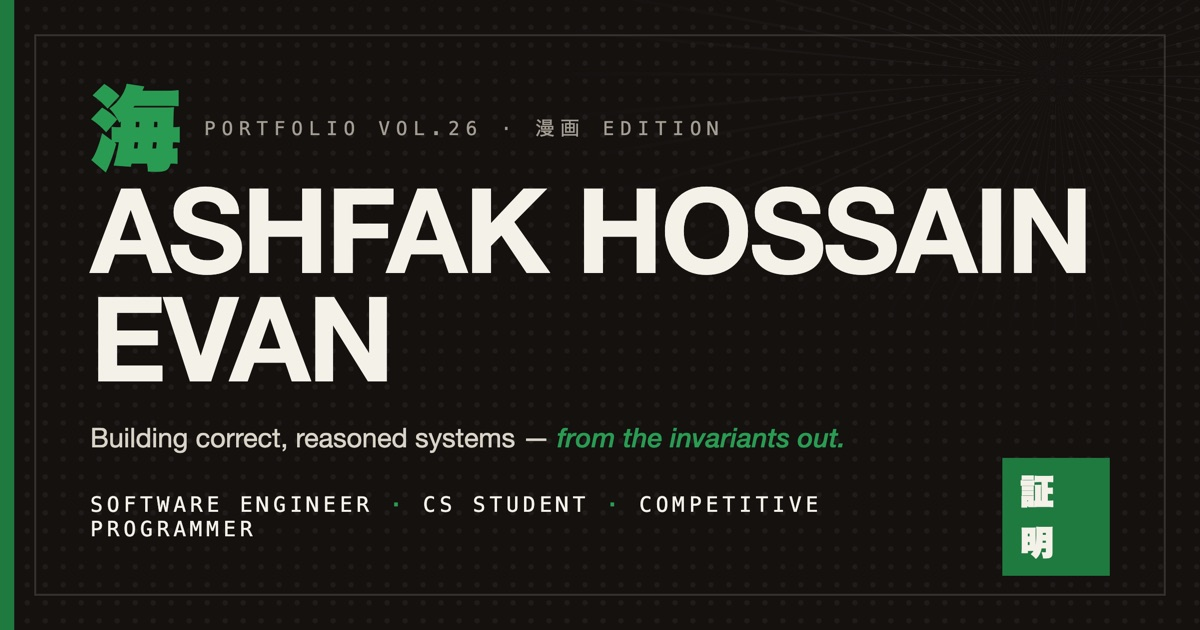
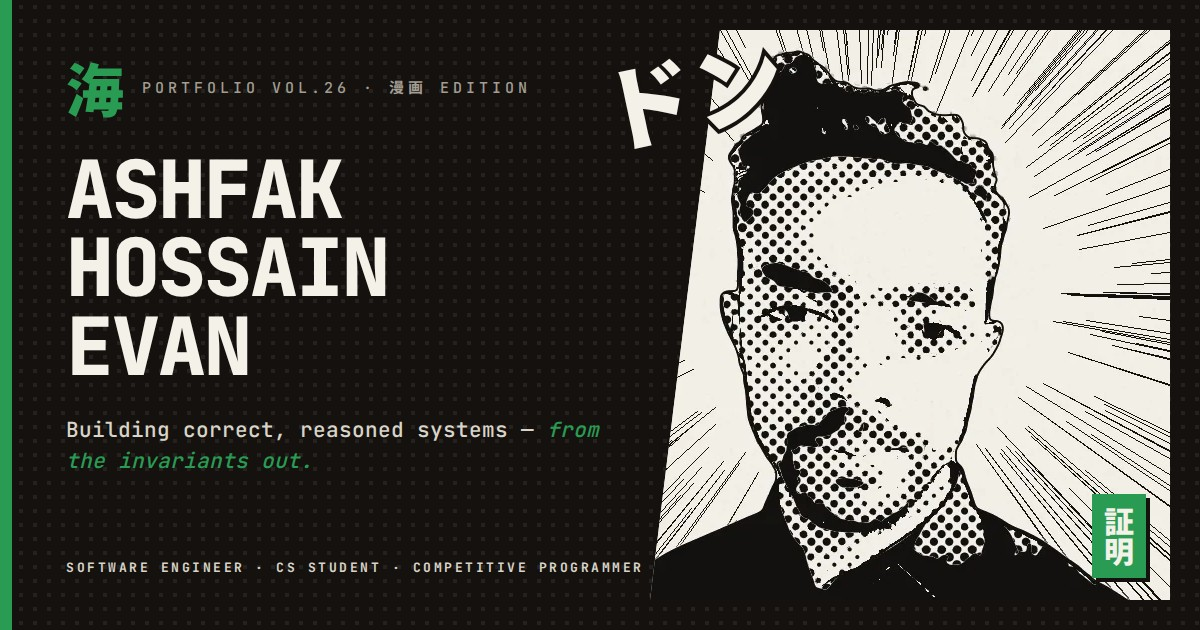
feat: manga share image
The 1200×630 share card is now a manga panel: the portrait in a slanted
panel with focus lines, a ドン sound effect over the gutter and the 証明
seal, beside the name and tagline. Its dots are deliberately large
because link previews shrink the image to ~40%.

scripts/og/og.html is the editable template; the README has the
one-line Playwright command to re-render it.

Claude-Session: https://claude.ai/code/session_017mP2Qebhr6rxKGK8T5yu1M

diff --git a/scripts/og/og.html b/scripts/og/og.html
@@ -1,0 +1,170 @@
+<!doctype html>
+<!--
+  Share card (Open Graph / X) — rendered to public/og-image.jpg at 1200×630.
+  Regenerate after editing (Playwright, from the repo root):
+    npx playwright screenshot --viewport-size=1200,630 \
+      "file://$PWD/scripts/og/og.html" public/og-image.jpg
+  The portrait is og-portrait-520.webp from scripts/manga-art. Its dots are
+  deliberately large: link previews shrink this image to ~40%, and fine
+  screentone shrunk that far turns into moiré.
+-->
+<html lang="en">
+  <head>
+    <meta charset="utf-8" />
+    <link
+      rel="stylesheet"
+      href="https://fonts.googleapis.com/css2?family=JetBrains+Mono:wght@500;700;800&family=Noto+Sans+JP:wght@700;900&display=block"
+    />
+    <style>
+      :root {
+        --ink: #14110f;
+        --paper: #f4f1e9;
+        --dim: #a39d92;
+        --soft: #d9d4c8;
+        --green: #2a9b53;
+      }
+      * {
+        box-sizing: border-box;
+        margin: 0;
+      }
+      html,
+      body {
+        width: 1200px;
+        height: 630px;
+        overflow: hidden;
+        background: var(--ink);
+      }
+      body {
+        position: relative;
+        font-family: 'JetBrains Mono', ui-monospace, monospace;
+        color: var(--paper);
+      }
+      .dots {
+        position: absolute;
+        inset: 0;
+        background-image: radial-gradient(rgba(244, 241, 233, 0.07) 22%, transparent 25%);
+        background-size: 14px 14px;
+      }
+      .spine {
+        position: absolute;
+        inset: 0 auto 0 0;
+        width: 12px;
+        background: var(--green);
+      }
+
+      /* the manga panel: slanted gutter on its left edge, like the Work page */
+      .panel {
+        position: absolute;
+        top: 30px;
+        right: 30px;
+        width: 520px;
+        height: 570px;
+        background: var(--paper);
+        clip-path: polygon(70px 0, 100% 0, 100% 100%, 0 100%);
+      }
+      .panel img {
+        display: block;
+        width: 100%;
+        height: 100%;
+        object-fit: cover;
+      }
+      .sfx {
+        position: absolute;
+        top: 44px;
+        left: 600px;
+        font-family: 'Noto Sans JP', sans-serif;
+        font-weight: 900;
+        font-size: 92px;
+        line-height: 1;
+        color: var(--paper);
+        -webkit-text-stroke: 8px var(--ink);
+        paint-order: stroke fill;
+        transform: rotate(-12deg);
+      }
+      .seal {
+        position: absolute;
+        right: 54px;
+        bottom: 52px;
+        padding: 12px 10px;
+        background: var(--green);
+        color: var(--paper);
+        font-family: 'Noto Sans JP', sans-serif;
+        font-weight: 900;
+        font-size: 30px;
+        line-height: 1.15;
+        writing-mode: vertical-rl;
+        box-shadow: 4px 4px 0 var(--ink);
+      }
+
+      .copy {
+        position: absolute;
+        top: 58px;
+        left: 66px;
+        width: 560px;
+      }
+      .mark {
+        display: flex;
+        align-items: center;
+        gap: 18px;
+      }
+      .logo {
+        font-family: 'Noto Sans JP', sans-serif;
+        font-weight: 900;
+        font-size: 58px;
+        line-height: 1;
+        color: var(--green);
+      }
+      .edition {
+        font-size: 15px;
+        letter-spacing: 4px;
+        color: var(--dim);
+      }
+      .edition span {
+        font-family: 'Noto Sans JP', sans-serif;
+      }
+      .name {
+        margin-top: 34px;
+        font-size: 80px;
+        font-weight: 800;
+        line-height: 0.98;
+        letter-spacing: -2px;
+      }
+      .tagline {
+        margin-top: 30px;
+        font-size: 21px;
+        line-height: 1.45;
+        color: var(--soft);
+      }
+      .tagline em {
+        color: var(--green);
+      }
+      .roles {
+        position: absolute;
+        left: 66px;
+        bottom: 54px;
+        font-size: 13px;
+        font-weight: 700;
+        letter-spacing: 2.5px;
+        color: var(--soft);
+      }
+    </style>
+  </head>
+  <body>
+    <div class="dots"></div>
+    <div class="spine"></div>
+
+    <div class="panel"><img src="og-portrait-520.webp" alt="" /></div>
+    <div class="sfx" lang="ja">ドン</div>
+    <div class="seal" lang="ja">証明</div>
+
+    <div class="copy">
+      <div class="mark">
+        <div class="logo" lang="ja">海</div>
+        <div class="edition">PORTFOLIO VOL.26 · <span lang="ja">漫画</span> EDITION</div>
+      </div>
+      <div class="name">ASHFAK<br />HOSSAIN<br />EVAN</div>
+      <p class="tagline">Building correct, reasoned systems — <em>from the invariants out.</em></p>
+    </div>
+    <div class="roles">SOFTWARE ENGINEER · CS STUDENT · COMPETITIVE PROGRAMMER</div>
+  </body>
+</html>
